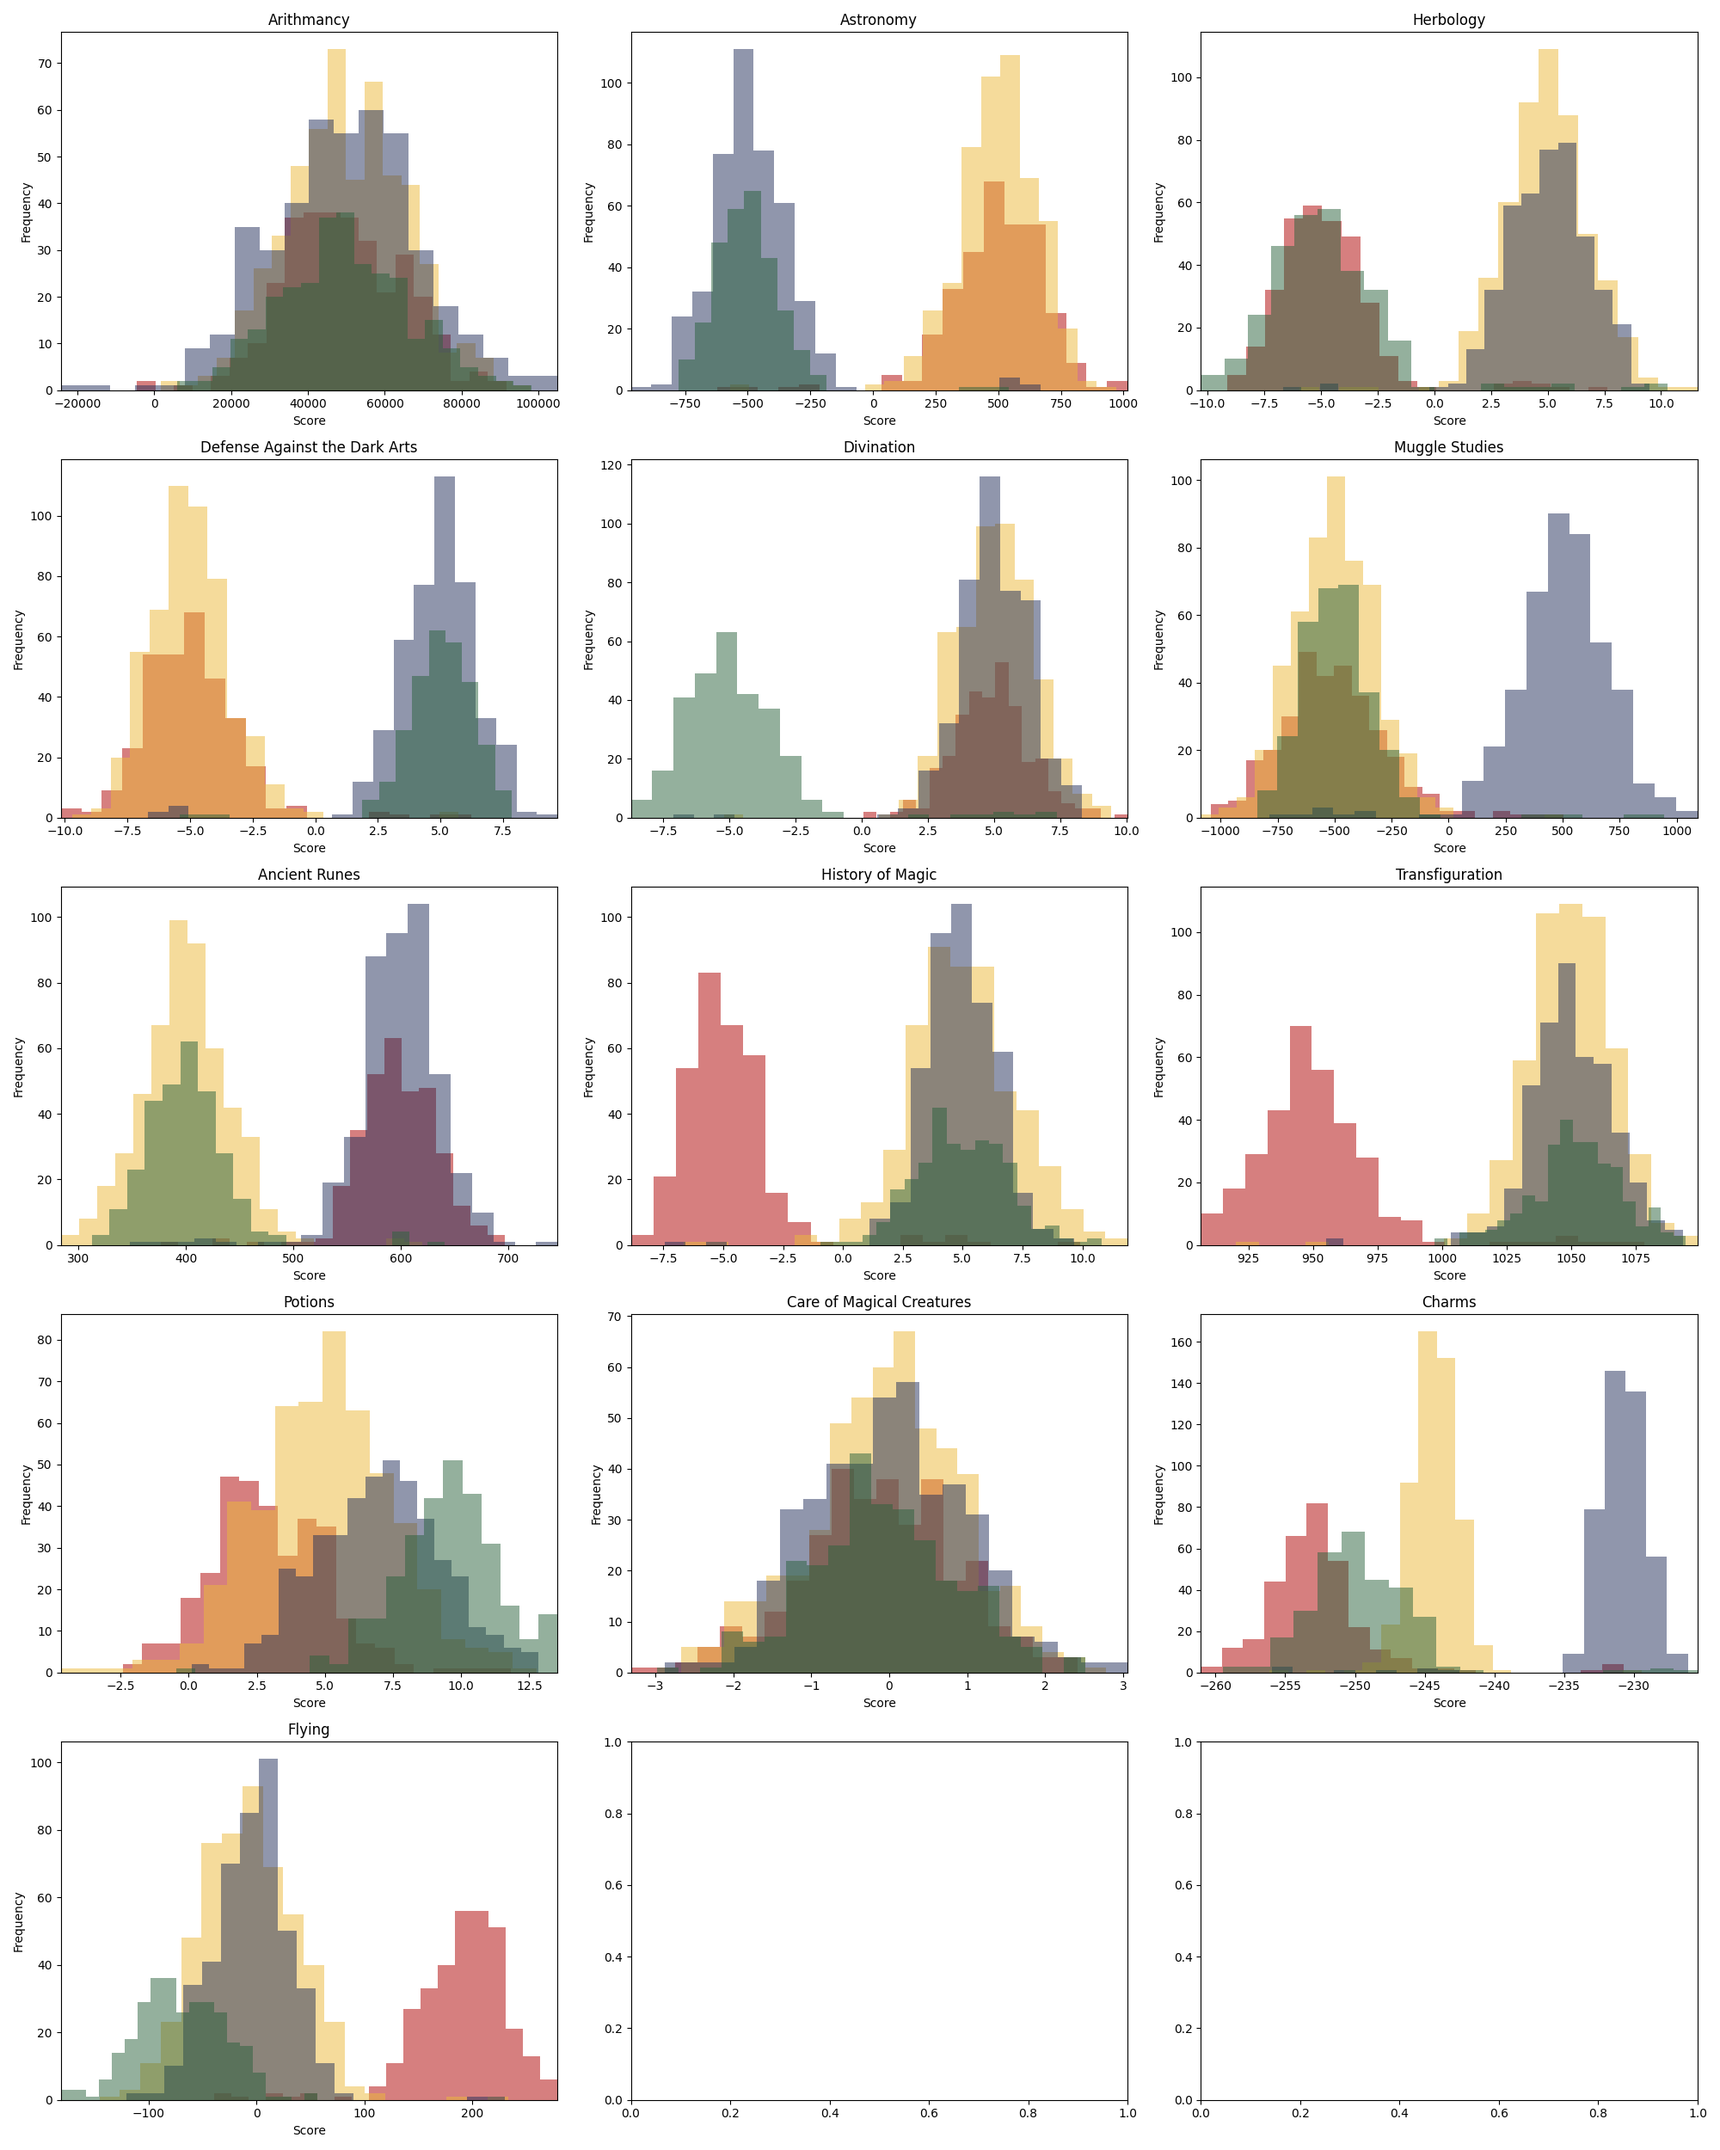
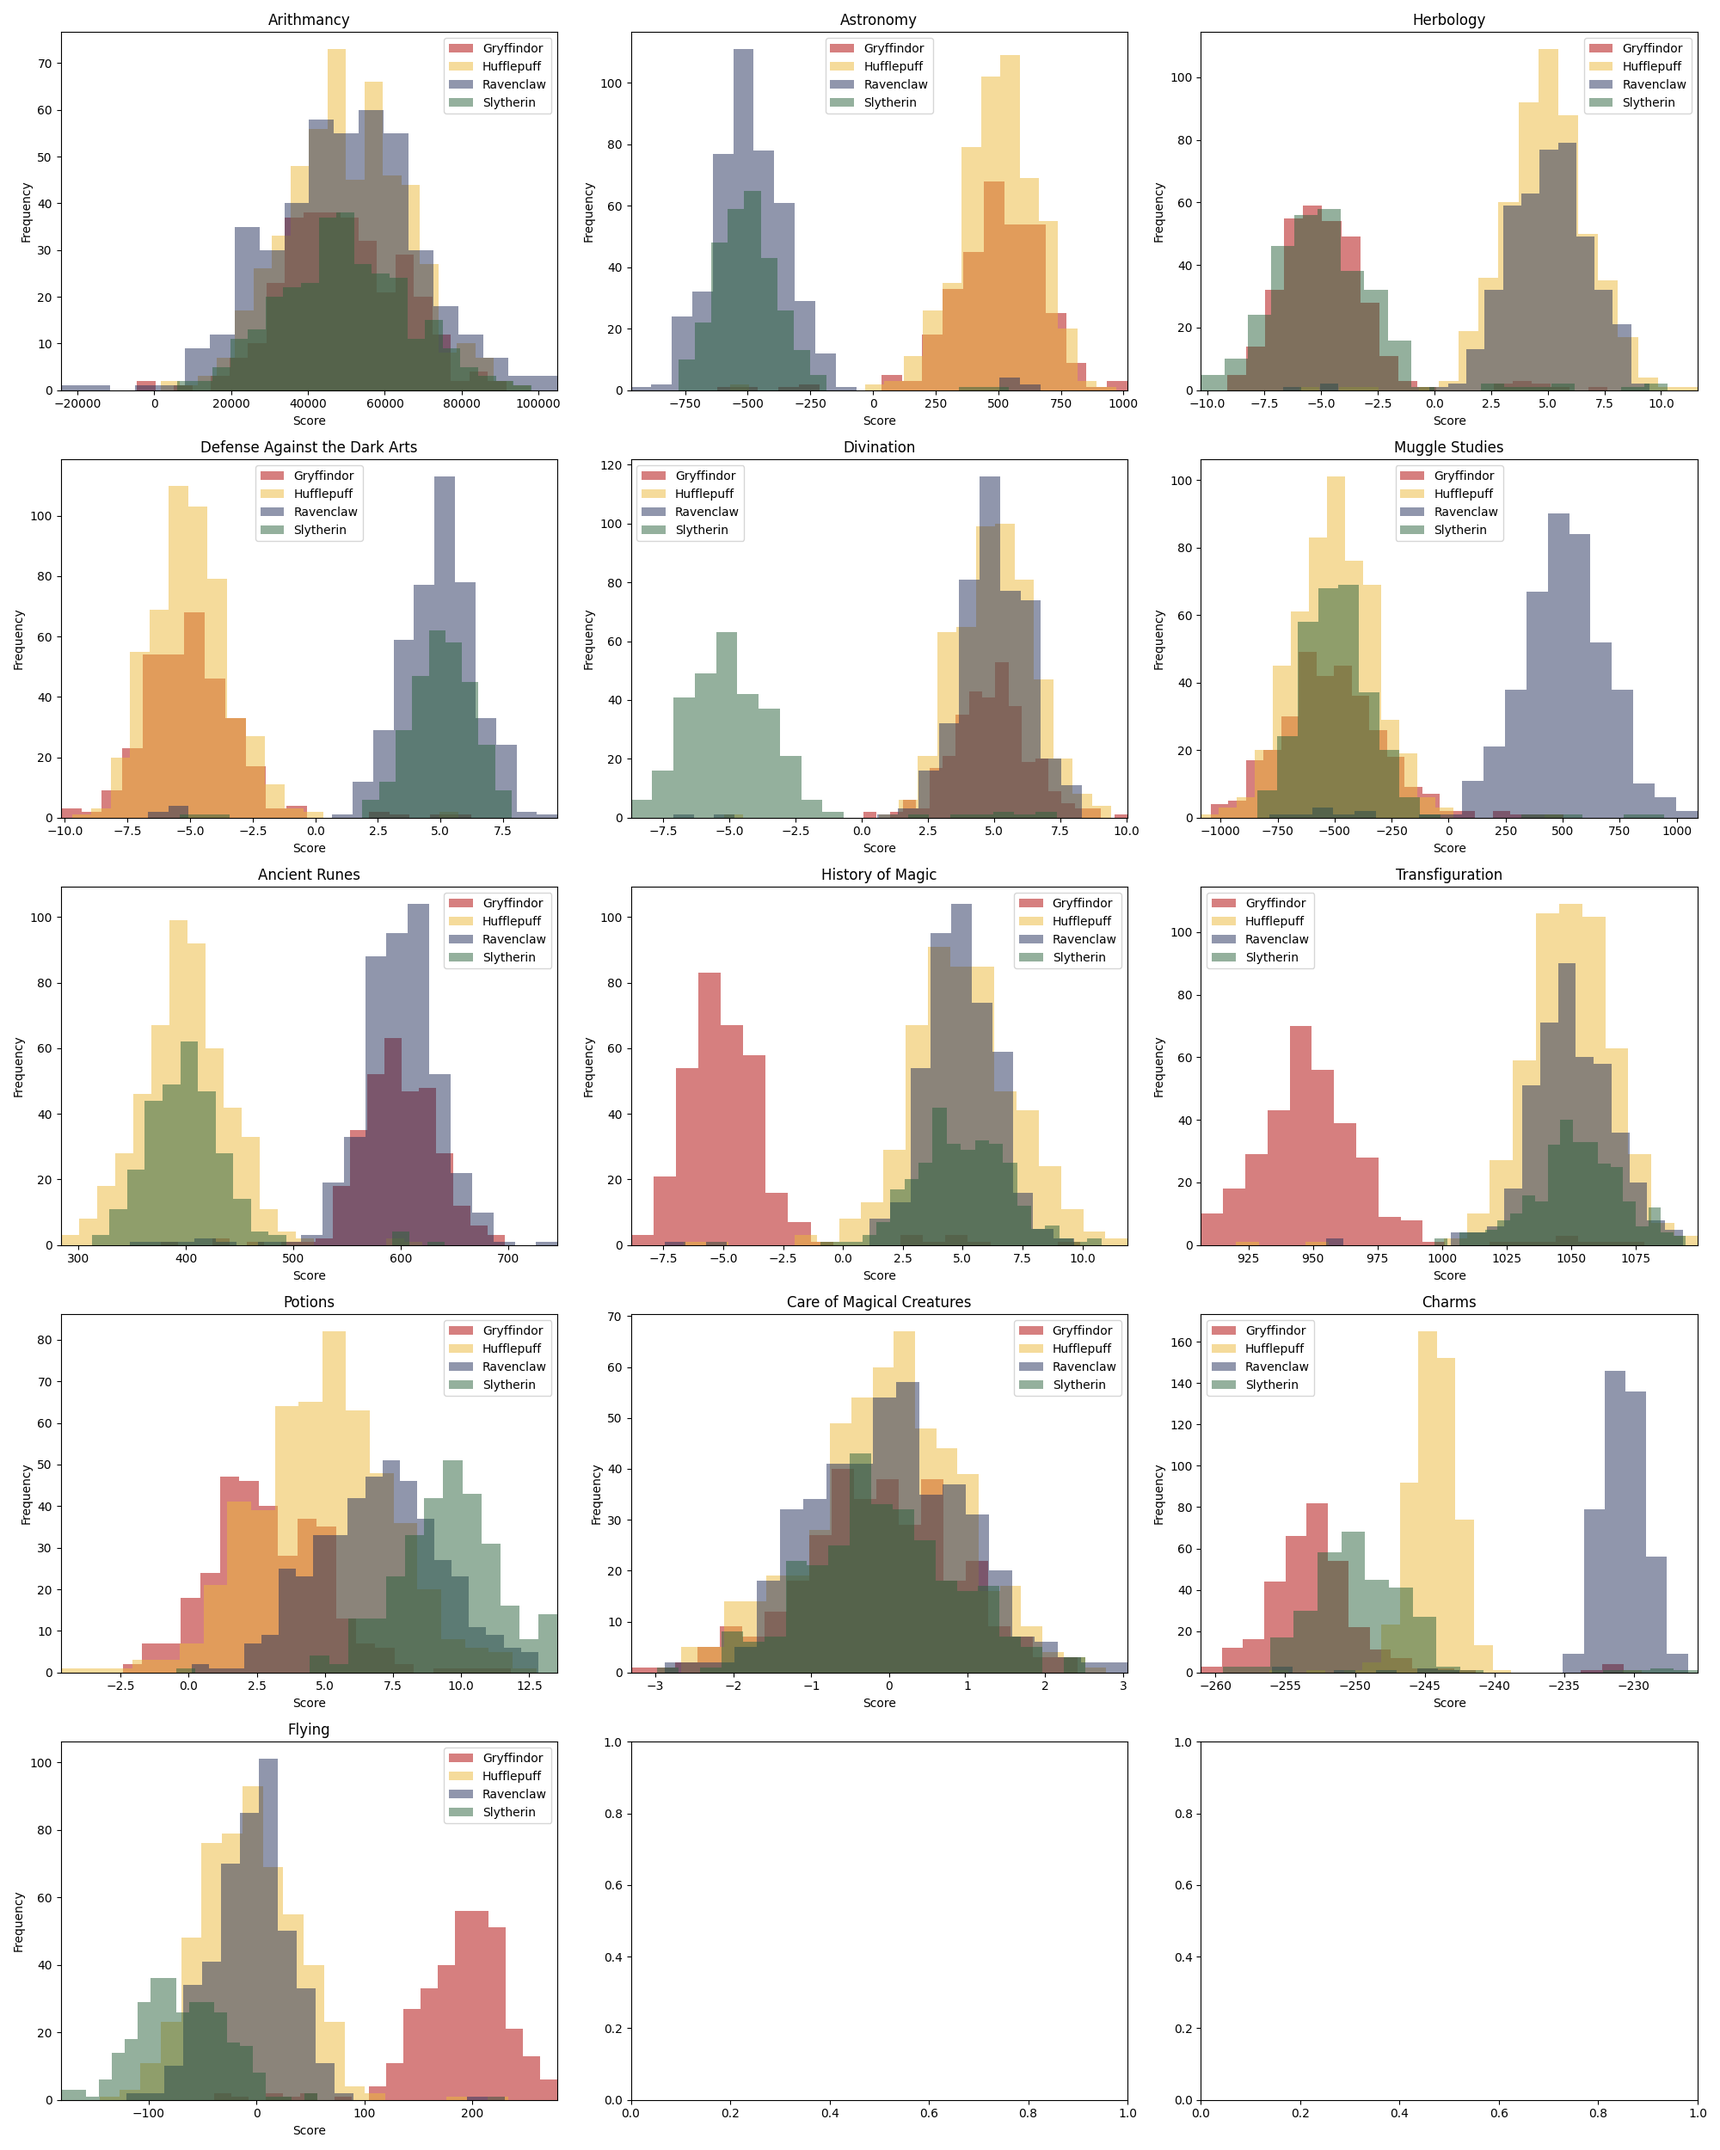
Add legend to histograms

diff --git a/26_dslr/app/data_viz/Plot.py b/26_dslr/app/data_viz/Plot.py
@@ -106,6 +106,7 @@ class Plot:
             plt.xlabel("Score")
             plt.ylabel("Frequency")
             plt.xlim(min_score, max_score)
+            plt.legend(self.houses)
 
         serialized_subject = subject.replace(" ", "_").lower()
         self._save_plot(f"score_distribution_{serialized_subject}.png")
@@ -152,6 +153,7 @@ class Plot:
                 axs[y][x].set_xlabel("Score")
                 axs[y][x].set_ylabel("Frequency")
                 axs[y][x].set_xlim(min_score, max_score)
+                axs[y][x].legend(self.houses)
 
             x = (x + 1) % n_cols
             y = y + 1 if x == 0 else y
